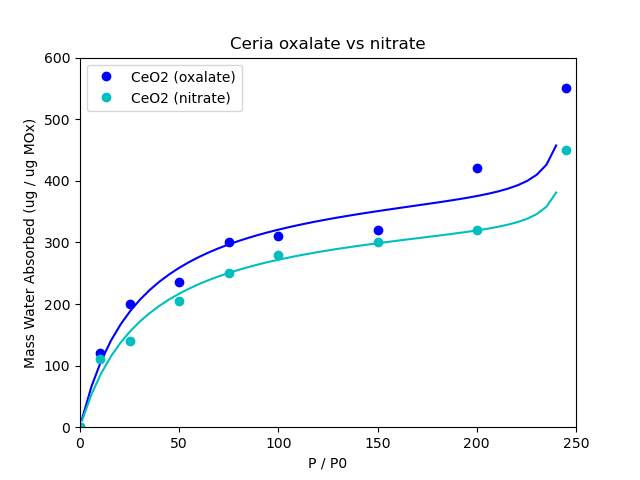
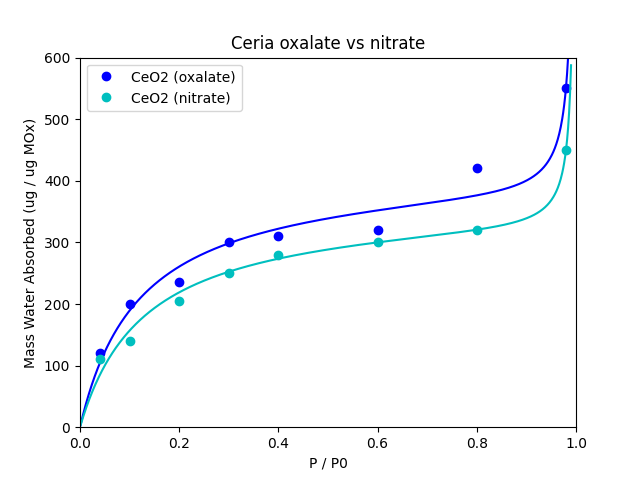
change WA x axis to PP

diff --git a/src_WA/WA.py b/src_WA/WA.py
@@ -1,9 +1,9 @@
 """
 Uses attrs
 Adv: validators as method decorators, mypy works
-Dis: pylance needs extra annotations, converters as separate functions
+Dis: pylance needs extra annotations (until numpy 1.20?), converters as separate functions
 Note: mypy undestands that input types are for converter, and output types are as hinted
-Look into: cattrs, attrs-serde
+Look into: cattrs, attrs-serde, attrs-stict
 """
 
 import json
@@ -17,9 +17,17 @@ from matplotlib.axes import Axes
 import attr
 # import cattr
 # from xarray import DataArray
-from typing import Callable, NamedTuple, cast, Tuple, Dict, Union, List  # noqa: F401
+from typing import Callable, Mapping, NamedTuple, Sequence, cast, Tuple, Dict, Union, List  # noqa: F401
 
-from typing_extensions import TypedDict
+from typing_extensions import TypedDict, Literal  # noqa: F401
+
+
+def water_added_to_pp(water_added: Sequence[float], vessel_volume: int = 1000) -> np.ndarray:
+    """convert list of amounts of water in mg to array of partial pressures for a given volume"""
+    wa_array = np.array(water_added, dtype=float)
+    pp: np.ndarray = 4 * (wa_array / vessel_volume)
+    # print(pp)
+    return pp
 
 
 def predict_y(x: np.ndarray, m: float, k: float, n: float, j: float) -> np.ndarray:
@@ -34,10 +42,11 @@ def predict_y(x: np.ndarray, m: float, k: float, n: float, j: float) -> np.ndarr
 
 def predict_y_maxed_humidity(x: np.ndarray, m: float, k: float, j: float) -> np.ndarray:
     """Predict y values for a given x value dataset, using the parameters supplied
-    Equation: y = mx / (k+x) + 1/[(n/jx) - 1/j] where n=250"""
+    Equation: y = mx / (k+x) + 1/[(n/jx) - 1/j] where n = 1"""
     form_A = (x * m) / (k + x)
-    form_B_inv = (250 / (j * x)) - (1 / j)
+    form_B_inv = (1 / (j * x)) - (1 / j)
     form_B = 1 / form_B_inv
+    # print(form_B)
     y_fit: np.ndarray = form_A + form_B
     return y_fit
 
@@ -45,10 +54,10 @@ def predict_y_maxed_humidity(x: np.ndarray, m: float, k: float, j: float) -> np.
 class ParamsNTup(NamedTuple):
     """Container for parameters"""
     # used instead of dataclass as has .__iter__() and indexable
-    m: float = 350
-    k: float = 20
-    n: float = 250
-    j: float = 40
+    m: float = 300
+    k: float = 0.5
+    n: float = 1
+    j: float = 3
 
 
 class ParamsTDict(TypedDict):
@@ -68,12 +77,12 @@ ParamsType = Union[List[float], Tuple4float, ParamsNTup, np.ndarray]
 
 def convert_params(v: ParamsType) -> ParamsNTup:
     """Converter function to coerce 4 float list, tuple, set, ndarray to ParamsNTup
-       Also rounds floats to 1 d.p."""
-    if not len(v) == 4:
+    Also rounds floats to 2 d.p."""
+    if len(v) != 4:
         raise ValueError(
             "Fit parameters should be container of len == 4, eg. ParamsNTup")
     try:
-        rounded_v = tuple((round(x, 1) for x in v))
+        rounded_v = tuple((round(x, 2) for x in v))
         w = ParamsNTup(*rounded_v)
     except TypeError as terr:
         terr.args += ("Fit parameters should be a ParamsType (ParamsNTup or list | tuple | set | ndarray)",)
@@ -81,22 +90,26 @@ def convert_params(v: ParamsType) -> ParamsNTup:
     return w
 
 
-@attr.dataclass()
+@ attr.dataclass()
 class WaterAbsFitParams():
     """Holds parameters for fit equation: y = mx / (k+x) + 1/[(n/jx) - 1/j]
     attrs: .params
     methods: .as_tuple(), .as_dict(), __len__()"""
-    params: ParamsNTup = attr.ib(ParamsNTup(
-        350, 20, 250, 40), converter=convert_params)
+    params: ParamsNTup = attr.ib(ParamsNTup(), converter=convert_params)
     std_errs: ErrType = attr.ib((0, 0, 0, 0))
 
-    @params.validator
+    @ params.validator
     def validate_params(self, attribute: attr.Attribute, v: ParamsNTup) -> None:
-        if not isinstance(v, ParamsNTup) or not len(v) == 4 or not isinstance(v[0], (int, float)):
+        if (
+            not isinstance(v, ParamsNTup)
+            or not isinstance(v[0], (int, float))
+            or len(v) != 4
+        ):
             raise TypeError(
                 "Fit parameters should by a ParamsNTup (coerced from tuple, list, set, np.ndarray)")
 
-        if not all(p > 0 for p in v):
+        if any(p <= 0 for p in v):
+            print(v)
             raise ValueError(
                 "All fit parameters should be positive floats | ints")
 
@@ -126,22 +139,21 @@ class WaterAbsFitParams():
     def as_json(self) -> str:
         """return datclass as string formatted as Dict[str, List[float]]"""
         d = attr.asdict(self, recurse=True)
-        j = json.dumps(d)
-        return j
+        return json.dumps(d)
 
     def params_dict(self) -> ParamsTDict:
         d = self.params._asdict()
-        pd = ParamsTDict(m=d['m'], k=d['k'], n=d['n'], j=d['j'])
-        return pd
+        return ParamsTDict(m=d['m'], k=d['k'], n=d['n'], j=d['j'])
 
 
 def get_params(x_data: np.ndarray, y_data: np.ndarray,
-               init_params: Union[WaterAbsFitParams, ParamsType] = WaterAbsFitParams(),  # noqa: B008
+               init_params: Union[WaterAbsFitParams,
+                                  ParamsType] = ParamsNTup(),
                fix_n: bool = False,
                ) -> WaterAbsFitParams:
 
-    init_pt = init_params.params if isinstance(
-        init_params, WaterAbsFitParams) else ParamsNTup(*init_params)
+    init_pt = ParamsNTup(*init_params) if not isinstance(init_params,
+                                                         WaterAbsFitParams) else init_params.params
 
     assert len(x_data) == len(y_data)
 
@@ -152,23 +164,26 @@ def get_params(x_data: np.ndarray, y_data: np.ndarray,
     if fix_n:
         popt, pcov = curve_fit(predict_y_maxed_humidity, x_data, y_data,
                                p0=(init_pt.m, init_pt.k, init_pt.j),
+                               bounds=([0, 0, 0], [np.inf, 1, np.inf])
                                )
-        popt = np.insert(popt, 2, values=250, axis=0)
+        popt = np.insert(popt, 2, values=1, axis=0)
         pcov_diags = (pcov[0][0], pcov[1][1], 0, pcov[2][2])
     else:
         popt, pcov = curve_fit(predict_y, x_data, y_data,
                                p0=init_pt,
+                               bounds=([0, 0, 0, 0], [
+                                       np.inf, 1, np.inf, np.inf])
                                )
         pcov_diags = (pcov[0][0], pcov[1][1], pcov[2][2], pcov[3][3])
     assert len(popt) == len(init_pt) == 4
-    std_errs = cast(ErrType, tuple(round(x**0.5, 1) for x in pcov_diags))
+    std_errs = cast(ErrType, tuple(round(x**0.5, 2) for x in pcov_diags))
     return WaterAbsFitParams(popt, std_errs)
 
 
 def wabs_plot(title: str = "") -> Tuple[Figure, Axes]:
     fig = plt.figure()
     ax: Axes = fig.subplots()   # type:ignore
-    plt.xlim(0, 250)
+    plt.xlim(0, 1)
     plt.ylim(0, 600)
     plt.ylabel("Mass Water Absorbed (ug / ug MOx)")
     plt.xlabel("P / P0")
@@ -187,28 +202,28 @@ def plot_line(x_data: np.ndarray,
               vmax_line: bool = False,
               ) -> Tuple[Figure, Axes]:
     """ b: blue
-        g: green
-        r: red
-        c: cyan
-        m: magenta
-        y: yellow
-        k: black
-        w: white
-        Tuple[float, float, float], Tuple4float
-        html names"""
+    g: green
+    r: red
+    c: cyan
+    m: magenta
+    y: yellow
+    k: black
+    w: white
+    Tuple[float, float, float], Tuple4float
+    html names"""
 
     assert len(x_data) == len(y_data)
 
     # get fit prameters, use to predict trendline
     fit_data = get_params(x_data, y_data, fix_n=fix_n)
     print(fit_data.params)
-    x_fit = np.linspace(1, 240, 50)
+    x_fit = np.linspace(0.001, 0.99, 1000)
     y_fit = predict_y(x_fit, *fit_data.params)
 
-    ax.plot(x_data, y_data, f'{linecolor}o', label=legend)
+    ax.plot(x_data[1:], y_data[1:], f'{linecolor}o', label=legend)
     ax.plot(x_fit, y_fit, f'{linecolor}-')
     if vmax_line:
-        ax.hlines(fit_data.m, xmin=0, xmax=250,
+        ax.hlines(fit_data.m, xmin=0, xmax=1,
                   colors=linecolor, linestyles='--')
 
     plt.legend(loc="upper left")
@@ -222,6 +237,13 @@ class WA_dataset():
     legend: str = attr.ib()
     color: str = attr.ib("")
 
+    def __attrs_post_init__(self) -> None:
+        """convert input arrays to floats and insert inital near 0 values"""
+        # TODO: move to converter function / validator method
+        self.x_data = np.insert(self.x_data.astype(float), 0, 0.001, axis=0)
+        self.y_data = np.insert(self.y_data.astype(float), 0, 0.01, axis=0)
+        assert len(self.x_data) == len(self.y_data)
+
 
 @attr.dataclass()
 class PlotInput():
@@ -229,10 +251,15 @@ class PlotInput():
     data: List[WA_dataset]
 
 
-PlotInputDict = Dict[str, Union[str, List[WA_dataset]]]
+class PlotInputTDict(TypedDict):
+    title: str
+    data: List[WA_dataset]
 
 
-def plot_multi(input: Union[PlotInput, PlotInputDict],
+PlotInputMap = Mapping[str, Union[str, List[WA_dataset]]]
+
+
+def plot_multi(input: Union[PlotInput, PlotInputTDict, PlotInputMap],
                vmax_line: bool = False,
                fix_n: bool = True,
                show: bool = True,
@@ -242,24 +269,22 @@ def plot_multi(input: Union[PlotInput, PlotInputDict],
                ) -> Tuple[Figure, Axes]:
     """plot multiple Water Abs datasets on single axis
     vmax_line: bool -> add a line for v_max for each  dataset
-    fix_n: bool = True -> Use constrained n (max partial pressure) of 1
+    fix_n: bool = True -> Use constrained n(max partial pressure) of 1
     show: bool = True -> show figure
     save: bool = True -> save figure to provided path or in cwd
     save_path: str | Path = R".\" -> path to save figure, if save=True  """
 
-    if not isinstance(input, PlotInput):
-        assert isinstance(input['title'], str)
-        assert isinstance(input['data'], List)
-        valid_input = PlotInput(input['title'], input['data'])
-    else:
-        valid_input = input
+    valid_input: PlotInput = (input if isinstance(input, PlotInput)
+                              else PlotInput(**input))
 
     fig, ax = wabs_plot(title=valid_input.title)
 
     for item in valid_input.data:
-        assert isinstance(item, WA_dataset)
-        plot_line(item.x_data, item.y_data, fig, ax,
-                  item.legend, linecolor=item.color, vmax_line=vmax_line, fix_n=fix_n)
+        # assert isinstance(item, WA_dataset)
+        plot_line(item.x_data, item.y_data,
+                  fig, ax,
+                  item.legend, linecolor=item.color,
+                  vmax_line=vmax_line, fix_n=fix_n)
 
     if save:
         sp = Path(save_path) / file_name
@@ -272,13 +297,13 @@ def plot_multi(input: Union[PlotInput, PlotInputDict],
 if __name__ == "__main__":
 
     # CeO2
-    x_ceo2_ox = np.array([0.1, 10, 25, 50, 75, 100, 150, 200, 245])
-    y_ceo2_ox = np.array([0.1, 120, 200, 235, 300, 310, 320, 420, 550])
+    x_ceo2_ox = water_added_to_pp([10, 25, 50, 75, 100, 150, 200, 245])
+    y_ceo2_ox = np.array([120, 200, 235, 300, 310, 320, 420, 550])
 
-    x_ceo2_n = np.array([0.1, 10, 25, 50, 75, 100, 150, 200, 245])
-    y_ceo2_n = np.array([0.1, 110, 140, 205, 250, 280, 300, 320, 450])
+    x_ceo2_n = water_added_to_pp([10, 25, 50, 75, 100, 150, 200, 245])
+    y_ceo2_n = np.array([110, 140, 205, 250, 280, 300, 320, 450])
 
-    ex: PlotInputDict = {
+    ex: PlotInputTDict = {
         'title': "Ceria oxalate vs nitrate",
         'data': [WA_dataset(x_ceo2_ox, y_ceo2_ox, "CeO2 (oxalate)", color='b'),
                  WA_dataset(x_ceo2_n, y_ceo2_n, "CeO2 (nitrate)", color='c'),
@@ -301,5 +326,4 @@ if __name__ == "__main__":
     plot_line(x_tho2, y_tho2, "ThO2", linecolor='r')
     """
 
-    # TODO: have plot_line or subfunction append 0.1 to x and y
     # make plot_line colors literals and autocycle colors

diff --git a/src/tkcolorpicker/colorsquare.py b/src/tkcolorpicker/colorsquare.py
@@ -46,7 +46,7 @@ class ColorSquare(tk.Canvas):
         self.bind('<ButtonPress-1>', self._on_click)
         self.bind('<B1-Motion>', self._on_move)
 
-    def _fill(self):
+    def _fill(self):  # sourcery skip: move-assign
         """Create the gradient."""
         r, g, b = hue2col(self._hue)
         width = self.winfo_width()
@@ -54,7 +54,8 @@ class ColorSquare(tk.Canvas):
         h = float(height - 1)
         w = float(width - 1)
         if height:
-            c = [(r + i / h * (255 - r), g + i / h * (255 - g), b + i / h * (255 - b)) for i in range(height)]
+            c = [(r + i / h * (255 - r), g + i / h * (255 - g),
+                  b + i / h * (255 - b)) for i in range(height)]
             data = []
             for i in range(height):
                 line = []

diff --git a/src/tkcolorpicker/alphabar.py b/src/tkcolorpicker/alphabar.py
@@ -89,10 +89,7 @@ class AlphaBar(tk.Canvas):
 
         x = alpha / 255. * width
         h, s, v = rgb_to_hsv(r, g, b)
-        if v < 50:
-            fill = "gray80"
-        else:
-            fill = 'black'
+        fill = "gray80" if v < 50 else 'black'
         self.create_line(x, 0, x, height, width=2, tags='cursor', fill=fill)
 
     def _on_click(self, event):
@@ -130,8 +127,5 @@ class AlphaBar(tk.Canvas):
 
     def set_color(self, color):
         """Set gradient color to color in RGB(A)."""
-        if len(color) == 3:
-            alpha = self.get()
-        else:
-            alpha = color[3]
+        alpha = self.get() if len(color) == 3 else color[3]
         self._draw_gradient(alpha, color[:3])

diff --git a/src/tkcolorpicker/functions.py b/src/tkcolorpicker/functions.py
@@ -124,5 +124,4 @@ def overlay(image, color):
     """
     width, height = image.size
     im = Image.new("RGBA", (width, height), color)
-    preview = Image.alpha_composite(image, im)
-    return preview
+    return Image.alpha_composite(image, im)
